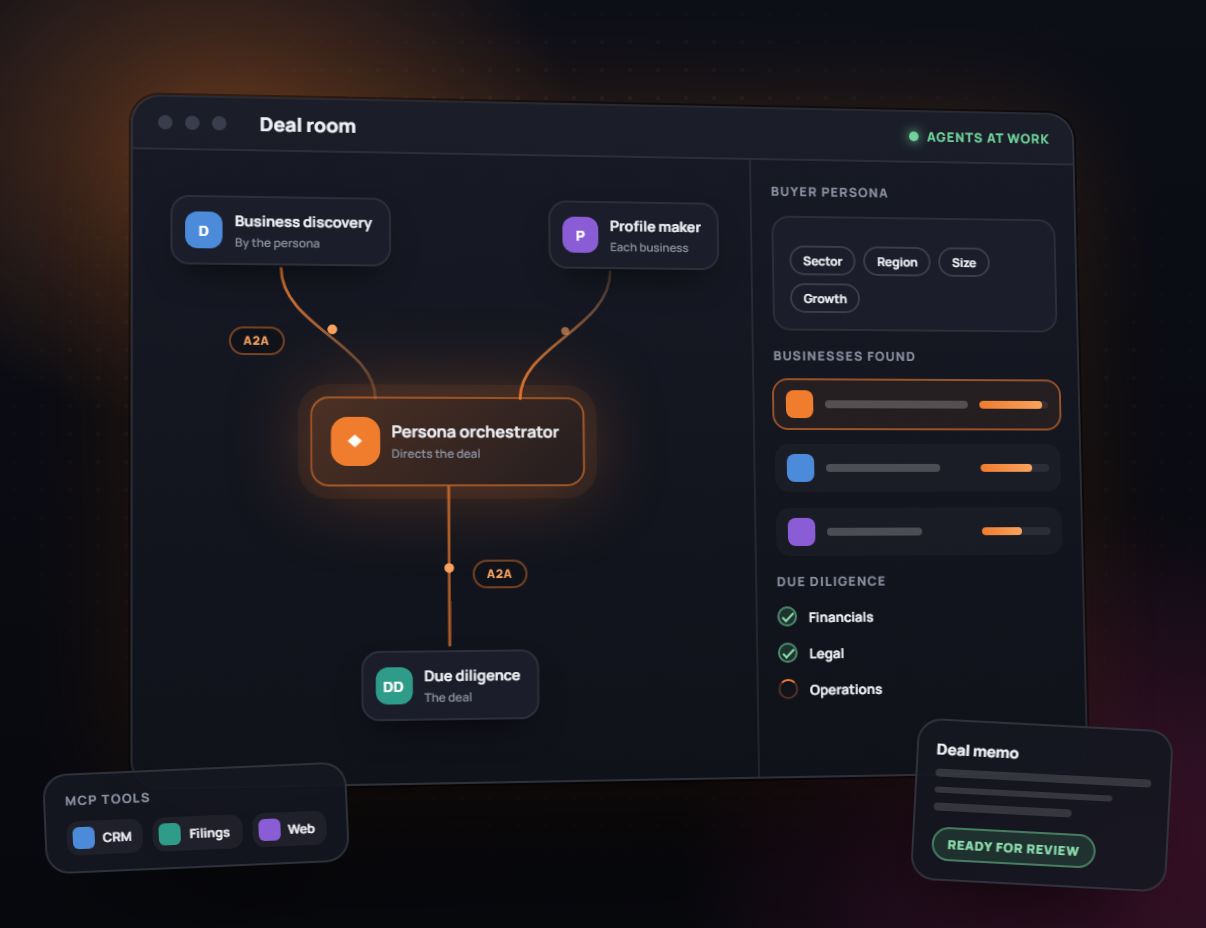
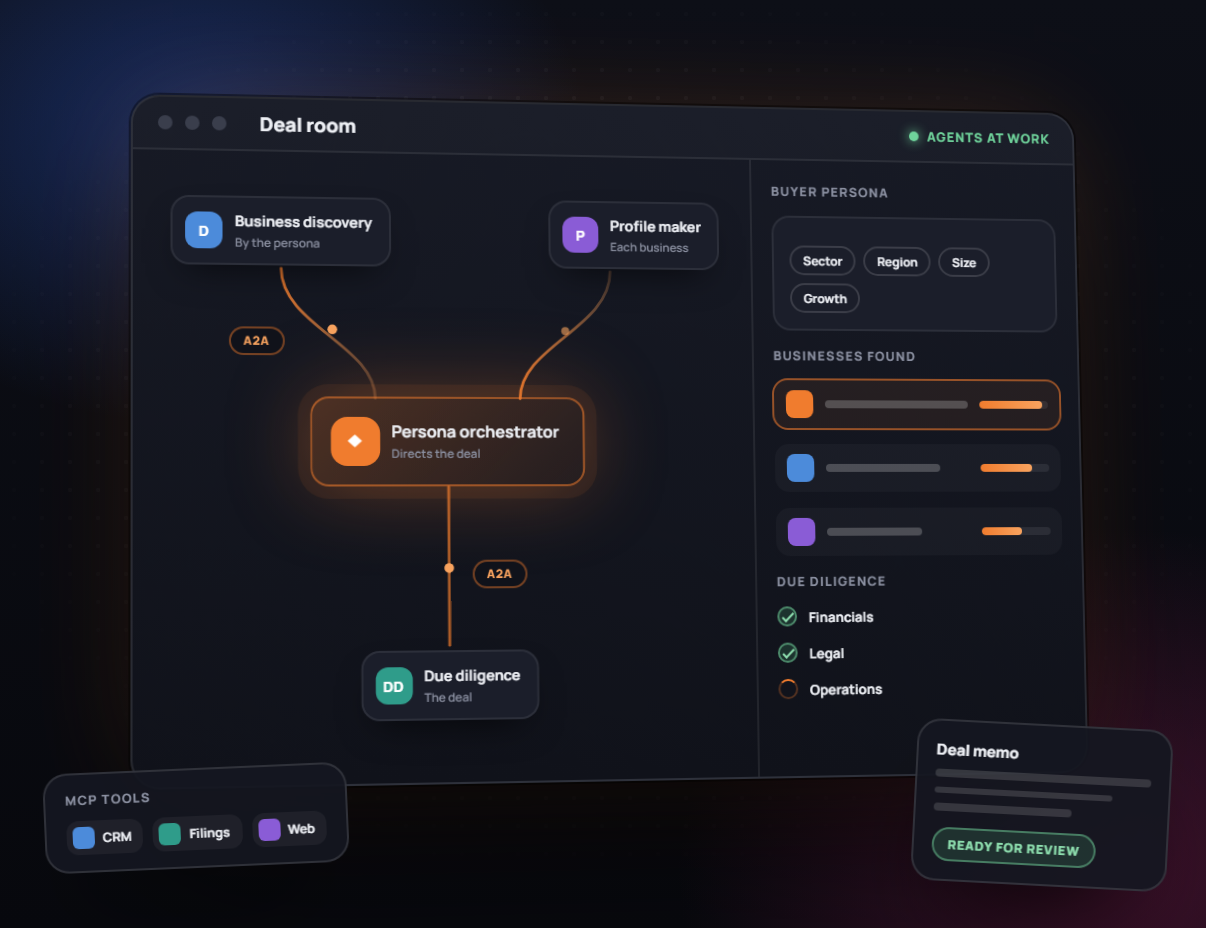
feat(projects): consistent labels, copy and illustration palette
- Labels follow one scheme, the industry, in standard terms: Media &
  Marketing, Business Intelligence, Mergers & Acquisitions, Healthcare,
  Risk & Compliance, Supply Chain, Logistics (no more "Warehouse AI").
- Every summary is one professional sentence of about the same length
  (three lines at 1440px) with three parallel bullets; feature chips use
  sentence case and standard terms.
- The seven HTML illustrations share one brand-palette stage (blue on the
  outer top corner, crimson on the inner bottom, a faint violet centre,
  mirrored for image-right rows), re-rendered; each product's own colour
  stays inside its UI. Dairector's glow now faces the same way as the rest.

Changed region(s): [[0.0, 0.0, 0.3682, 0.3125]]

diff --git a/src/content/projects.ts b/src/content/projects.ts
@@ -38,31 +38,31 @@ export const projectsSection = {
 export const projects: Project[] = [
   {
     slug: 'dairector',
-    eyebrow: 'AI VIDEO STUDIO',
+    eyebrow: 'MEDIA & MARKETING',
     tone: 'standard',
     featured: 1,
     title: 'Dairector',
     summary:
-      'An AI studio in a box: describe a video in a few plain lines, and a crew of AI agents writes, voices, designs, edits and reviews it in one conversation, on brand and within budget.',
+      'An AI video studio where specialised agents script, voice, design, edit and review each video from a short brief, keeping every output on brand and within budget.',
     bullets: [
-      'A crew of AI agents in one conversation',
-      'On brand, every spend held to a budget',
+      'Multi-agent production in one conversation',
+      'Brand governance and budget controls',
       'Presenter videos from a single photo',
     ],
     features: [
-      'AI crew of agents',
+      'Multi-agent production',
       'Guided & Express modes',
       'Scriptwriting',
       'Voice-over',
       'Motion design',
       'Video editing',
       'AI review',
-      'Brand on every video',
+      'Brand governance',
       'Budgets & spend caps',
-      'Presenter from one photo',
+      'Presenter videos from one photo',
       '16:9 · 9:16 · 1:1',
       'Invite-only workspaces',
-      'Google sign-in',
+      'Google single sign-on',
     ],
     image: dairectorShot,
     imageAlt:
@@ -70,24 +70,24 @@ export const projects: Project[] = [
   },
   {
     slug: 'satori',
-    eyebrow: 'ENTERPRISE AI',
+    eyebrow: 'BUSINESS INTELLIGENCE',
     tone: 'standard',
     title: 'Satori',
     summary:
-      'A decision-support platform that turns a cloud data warehouse into the reports, dashboards and scheduled briefings an executive team runs on, with an assistant that answers in plain language.',
+      'A decision-support platform that turns an enterprise data warehouse into reports, dashboards and scheduled executive briefings, with a natural-language assistant for instant answers.',
     bullets: [
-      'Reports that match in the browser and the inbox',
-      'Row-level access down to a single district',
-      'An AI assistant that never writes its own SQL',
+      'Consistent reports on screen and by email',
+      'Row-level security down to district level',
+      'Governed AI assistant built on approved reports',
     ],
     features: [
       'User management',
       'Role-based access (RBAC)',
       'Organisation management',
-      'AI Report Builder',
-      'AI Dashboard Builder',
-      'Q&A assistant',
-      'Broadcasting',
+      'AI report builder',
+      'AI dashboard builder',
+      'Natural-language Q&A',
+      'Scheduled report distribution',
       'Row-level security',
     ],
     image: satoriShot,
@@ -96,23 +96,23 @@ export const projects: Project[] = [
   },
   {
     slug: 'multi-agent-ai-platform',
-    eyebrow: 'BUSINESS ACQUISITION',
+    eyebrow: 'MERGERS & ACQUISITIONS',
     tone: 'standard',
     featured: 3,
     title: 'Multi-Agent AI Platform',
     summary:
-      'A multi-agent platform for buying a business, built with Google ADK: a persona orchestrator directs agents that discover the businesses that fit the buyer, build each one’s profile and run due diligence on the deal, working together over A2A and reaching live data through MCP.',
+      'A multi-agent platform built with Google ADK that helps buyers acquire a business: an orchestrator coordinates agents for discovery, profiling and due diligence over A2A and MCP.',
     bullets: [
-      'Business discovery driven by the buyer’s persona',
-      'Profiles and due diligence by specialist agents',
-      'Secure MCP tools, agents working together over A2A',
+      'Persona-driven business discovery',
+      'Automated profiling and due diligence',
+      'Secure MCP tools and A2A collaboration',
     ],
     features: [
       'Persona orchestration',
       'Business discovery',
-      'Profile builder',
+      'Business profiling',
       'Due diligence',
-      'Document summariser',
+      'Document summarisation',
       'Document management',
       'Multi-tenancy',
       'User management',
@@ -126,16 +126,16 @@ export const projects: Project[] = [
   },
   {
     slug: 'enterprise-telehealth-platform',
-    eyebrow: 'TELEHEALTH',
+    eyebrow: 'HEALTHCARE',
     tone: 'bright',
     featured: 2,
     title: 'Enterprise Telehealth Platform',
     summary:
-      'A multi-tenant telehealth platform connecting patients, providers, pharmacies, labs and administrators, so every virtual consultation leads to a prescription, a lab order and a documented care plan within one system.',
+      'A multi-tenant telehealth platform connecting patients, providers, pharmacies and labs, so every consultation flows into prescriptions, lab orders and a documented care plan.',
     bullets: [
-      'Secure virtual consultations, transcribed',
+      'Secure, transcribed video consultations',
       'e-Prescriptions and lab results in one record',
-      'Multi-tenant, with a portal for every role',
+      'Dedicated portals for every role',
     ],
     features: [
       'Patient, provider, pharmacy, lab & admin portals',
@@ -157,15 +157,15 @@ export const projects: Project[] = [
   },
   {
     slug: 'responsible-ai-governance',
-    eyebrow: 'AI GOVERNANCE',
+    eyebrow: 'RISK & COMPLIANCE',
     tone: 'standard',
     title: 'Responsible AI Governance',
     summary:
-      'Policy control frameworks that let regulated organisations adopt generative AI responsibly and at scale: custom policies set by zone and region and enforced by every department, on top of HIPAA, SOC 1, SOC 2 and GDPR controls.',
+      'A policy-control framework that lets regulated organisations adopt generative AI at scale, enforcing custom policies by zone, region and department on top of HIPAA, SOC 1, SOC 2 and GDPR controls.',
     bullets: [
-      'Custom policies per zone, region and department',
-      'HIPAA · SOC 1 & 2 · GDPR controls',
-      'RAG pipelines on Vertex AI, production-ready',
+      'Custom policies by zone, region and department',
+      'HIPAA, SOC 1, SOC 2 and GDPR controls',
+      'Production-ready RAG on Vertex AI',
     ],
     features: [
       'SOC 1 & SOC 2',
@@ -174,7 +174,7 @@ export const projects: Project[] = [
       'Custom policy enforcement',
       'Zone, region & department policies',
       'User management',
-      'Dictation',
+      'Voice dictation',
       'Multi-model queries',
       'RAG on Vertex AI',
     ],
@@ -184,22 +184,22 @@ export const projects: Project[] = [
   },
   {
     slug: 'intelligent-pallet-verification',
-    eyebrow: 'WAREHOUSE AI',
+    eyebrow: 'SUPPLY CHAIN',
     tone: 'standard',
     title: 'Intelligent Pallet Verification',
     summary:
-      'A computer vision and AI agent system that verifies every pallet against its order on the loading dock, reads the shipping paperwork automatically and flags mismatches before the load leaves, with every decision recorded for review.',
+      'A computer vision and AI agent system that verifies every pallet against its order at the loading dock, extracts shipping documents automatically and flags discrepancies before dispatch.',
     bullets: [
-      'Pallets verified against orders on the dock',
-      'Shipping paperwork read, not re-keyed',
-      'Every decision on an audit trail',
+      'Automated pallet-to-order verification',
+      'Intelligent document extraction',
+      'Full audit trail for every decision',
     ],
     features: [
-      'Pallet verification against orders',
+      'Pallet-to-order verification',
       'Computer vision',
       'AI agents (Google ADK)',
       'Document data extraction',
-      'Mismatch alerts & reports',
+      'Discrepancy alerts & reports',
       'Warehouse hardware integration',
       'Audit trail',
       'Vertex AI on Google Cloud',
@@ -210,15 +210,15 @@ export const projects: Project[] = [
   },
   {
     slug: 'intelligent-load-planning',
-    eyebrow: 'FREIGHT & LOGISTICS',
+    eyebrow: 'LOGISTICS',
     tone: 'standard',
     title: 'Intelligent Load Planning',
     summary:
-      'A web and mobile freight platform where a shipper creates the load and AI agents plan it, assigning the carrier, vehicle and driver, with every recommendation logged for a planner’s approval. Live tracking, proof of delivery and invoicing follow each load from booking to payment.',
+      'A web and mobile freight platform where AI agents plan each load, assigning the carrier, vehicle and driver for planner approval, with live tracking, proof of delivery and invoicing end to end.',
     bullets: [
-      'Agents assign the carrier, vehicle and driver',
+      'AI-assisted carrier, vehicle and driver assignment',
       'Live GPS tracking with ETA and delay alerts',
-      'An offline-first app for drivers on the road',
+      'Offline-first mobile app for drivers',
     ],
     features: [
       'Load intake & pricing',

diff --git a/scripts/art/agentic-ai.html b/scripts/art/agentic-ai.html
@@ -49,9 +49,11 @@
         position: absolute;
         inset: 0;
         background:
-          radial-gradient(260px 200px at 18% 16%, rgb(240 124 46 / 34%), transparent 70%),
-          radial-gradient(300px 240px at 92% 92%, rgb(120 26 74 / 50%), transparent 72%),
-          radial-gradient(220px 180px at 56% 52%, rgb(76 139 218 / 12%), transparent 70%),
+          /* Brand palette, shared by every illustration (see DECISIONS.md): blue on the outer top corner,
+             crimson on the inner bottom corner, a faint violet centre. The product's own colour stays in its UI. */
+          radial-gradient(280px 210px at 16% 14%, rgb(47 107 255 / 32%), transparent 70%),
+          radial-gradient(300px 240px at 92% 94%, rgb(120 26 74 / 50%), transparent 72%),
+          radial-gradient(220px 180px at 50% 56%, rgb(138 107 224 / 10%), transparent 70%),
           linear-gradient(180deg, #0d0f17, #07080d);
       }
 

diff --git a/scripts/art/satori.html b/scripts/art/satori.html
@@ -51,9 +51,11 @@
         position: absolute;
         inset: 0;
         background:
-          radial-gradient(280px 210px at 84% 20%, rgb(40 110 210 / 42%), transparent 70%),
-          radial-gradient(300px 240px at 10% 90%, rgb(110 52 140 / 55%), transparent 72%),
-          radial-gradient(240px 190px at 46% 58%, rgb(47 143 135 / 16%), transparent 70%),
+          /* Brand palette, shared by every illustration (see DECISIONS.md): blue on the outer top corner,
+             crimson on the inner bottom corner, a faint violet centre. The product's own colour stays in its UI. */
+          radial-gradient(280px 210px at 84% 14%, rgb(47 107 255 / 32%), transparent 70%),
+          radial-gradient(300px 240px at 8% 94%, rgb(120 26 74 / 50%), transparent 72%),
+          radial-gradient(220px 180px at 50% 56%, rgb(138 107 224 / 10%), transparent 70%),
           linear-gradient(180deg, #0d0f17, #07080d);
       }
 

diff --git a/scripts/art/dairector.html b/scripts/art/dairector.html
@@ -56,9 +56,11 @@
         position: absolute;
         inset: 0;
         background:
-          radial-gradient(260px 200px at 82% 18%, rgb(232 96 60 / 38%), transparent 70%),
-          radial-gradient(300px 240px at 12% 92%, rgb(120 26 74 / 55%), transparent 72%),
-          radial-gradient(220px 180px at 50% 60%, rgb(76 139 218 / 14%), transparent 70%),
+          /* Brand palette, shared by every illustration (see DECISIONS.md): blue on the outer top corner,
+             crimson on the inner bottom corner, a faint violet centre. The product's own colour stays in its UI. */
+          radial-gradient(280px 210px at 16% 14%, rgb(47 107 255 / 32%), transparent 70%),
+          radial-gradient(300px 240px at 92% 94%, rgb(120 26 74 / 50%), transparent 72%),
+          radial-gradient(220px 180px at 50% 56%, rgb(138 107 224 / 10%), transparent 70%),
           linear-gradient(180deg, #0d0f17, #07080d);
       }
 

diff --git a/scripts/art/load-planning.html b/scripts/art/load-planning.html
@@ -50,9 +50,11 @@
         position: absolute;
         inset: 0;
         background:
-          radial-gradient(270px 210px at 14% 12%, rgb(43 179 192 / 30%), transparent 70%),
-          radial-gradient(300px 240px at 92% 94%, rgb(120 26 74 / 48%), transparent 72%),
-          radial-gradient(220px 180px at 50% 56%, rgb(43 179 192 / 9%), transparent 70%),
+          /* Brand palette, shared by every illustration (see DECISIONS.md): blue on the outer top corner,
+             crimson on the inner bottom corner, a faint violet centre. The product's own colour stays in its UI. */
+          radial-gradient(280px 210px at 16% 14%, rgb(47 107 255 / 32%), transparent 70%),
+          radial-gradient(300px 240px at 92% 94%, rgb(120 26 74 / 50%), transparent 72%),
+          radial-gradient(220px 180px at 50% 56%, rgb(138 107 224 / 10%), transparent 70%),
           linear-gradient(180deg, #0d0f17, #07080d);
       }
 

diff --git a/scripts/art/telehealth.html b/scripts/art/telehealth.html
@@ -49,9 +49,11 @@
         position: absolute;
         inset: 0;
         background:
-          radial-gradient(260px 200px at 84% 14%, rgb(47 191 122 / 30%), transparent 70%),
-          radial-gradient(300px 240px at 10% 94%, rgb(40 72 200 / 40%), transparent 72%),
-          radial-gradient(220px 180px at 50% 56%, rgb(47 191 122 / 10%), transparent 70%),
+          /* Brand palette, shared by every illustration (see DECISIONS.md): blue on the outer top corner,
+             crimson on the inner bottom corner, a faint violet centre. The product's own colour stays in its UI. */
+          radial-gradient(280px 210px at 84% 14%, rgb(47 107 255 / 32%), transparent 70%),
+          radial-gradient(300px 240px at 8% 94%, rgb(120 26 74 / 50%), transparent 72%),
+          radial-gradient(220px 180px at 50% 56%, rgb(138 107 224 / 10%), transparent 70%),
           linear-gradient(180deg, #0d0f17, #07080d);
       }
 

diff --git a/scripts/art/pallet-verification.html b/scripts/art/pallet-verification.html
@@ -52,9 +52,11 @@
         position: absolute;
         inset: 0;
         background:
-          radial-gradient(270px 210px at 86% 12%, rgb(231 176 74 / 28%), transparent 70%),
-          radial-gradient(300px 240px at 8% 94%, rgb(40 72 200 / 40%), transparent 72%),
-          radial-gradient(220px 180px at 50% 56%, rgb(231 176 74 / 9%), transparent 70%),
+          /* Brand palette, shared by every illustration (see DECISIONS.md): blue on the outer top corner,
+             crimson on the inner bottom corner, a faint violet centre. The product's own colour stays in its UI. */
+          radial-gradient(280px 210px at 84% 14%, rgb(47 107 255 / 32%), transparent 70%),
+          radial-gradient(300px 240px at 8% 94%, rgb(120 26 74 / 50%), transparent 72%),
+          radial-gradient(220px 180px at 50% 56%, rgb(138 107 224 / 10%), transparent 70%),
           linear-gradient(180deg, #0d0f17, #07080d);
       }
 

diff --git a/scripts/art/ai-governance.html b/scripts/art/ai-governance.html
@@ -51,9 +51,11 @@
         position: absolute;
         inset: 0;
         background:
-          radial-gradient(280px 220px at 16% 12%, rgb(79 142 247 / 34%), transparent 70%),
+          /* Brand palette, shared by every illustration (see DECISIONS.md): blue on the outer top corner,
+             crimson on the inner bottom corner, a faint violet centre. The product's own colour stays in its UI. */
+          radial-gradient(280px 210px at 16% 14%, rgb(47 107 255 / 32%), transparent 70%),
           radial-gradient(300px 240px at 92% 94%, rgb(120 26 74 / 50%), transparent 72%),
-          radial-gradient(220px 180px at 50% 56%, rgb(79 142 247 / 10%), transparent 70%),
+          radial-gradient(220px 180px at 50% 56%, rgb(138 107 224 / 10%), transparent 70%),
           linear-gradient(180deg, #0d0f17, #07080d);
       }
 

diff --git a/DECISIONS.md b/DECISIONS.md
@@ -129,6 +129,16 @@ Owner-facing items are also tracked in [LAUNCH_CHECKLIST.md](LAUNCH_CHECKLIST.md
   folded in), Cloud (infrastructure, storage, networking, security, IAM), User Experience and Engineering (solution
   design). Each description is ~100 characters so every card wraps to the same three lines at 390-1440px
   (`text-wrap: pretty`); the intro is kept short enough to stay inside the inner ring at 1024px.
+- **Projects: consistent labels, copy and illustration palette (owner request, Oct 2026).**
+  - Labels follow one scheme, the industry, in standard terms: Media & Marketing, Business Intelligence, Mergers &
+    Acquisitions, Healthcare, Risk & Compliance, Supply Chain, Logistics (replacing a mix of industries,
+    technologies and coined terms such as "Warehouse AI").
+  - Every summary is one professional sentence of about the same length (three lines at 1440px) with three
+    parallel bullets; feature chips use sentence case and standard terms.
+  - The HTML illustrations (`scripts/art/*.html`, rendered by `scripts/render-project-art.mjs`) share one
+    brand-palette stage: blue on the outer top corner, crimson on the inner bottom corner, a faint violet centre,
+    mirrored for image-right rows. Each product's own colour stays inside its UI; before, each stage carried its own
+    accent glow (orange, teal, amber, green), so `/projects` read as seven colour schemes.
 - **Hero robot (owner request).** The owner asked for AI-generated, high-resolution, full-body art and approved
   candidate "A, presenting" (`design-candidates/`, git-ignored).
   - The final art was produced with **Gemini 3 Pro Image on Vertex AI**, at
